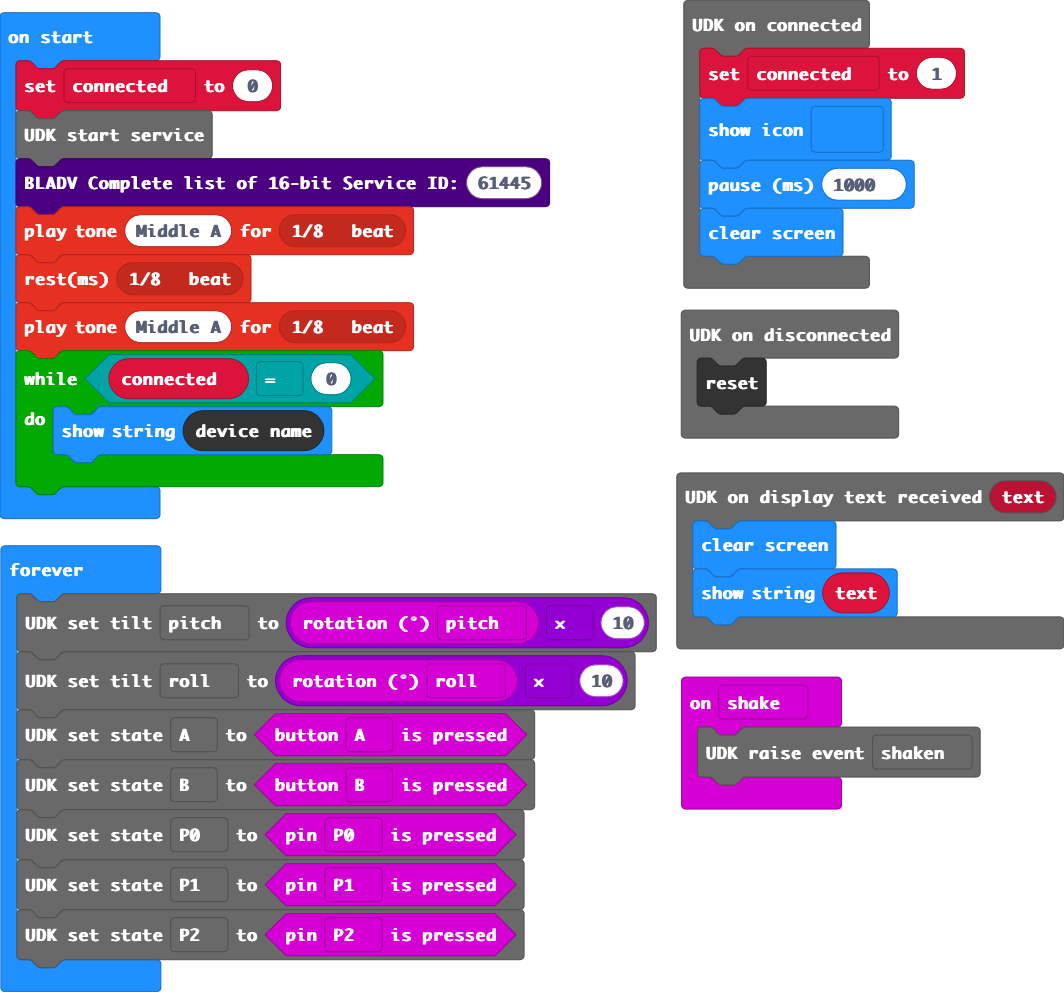
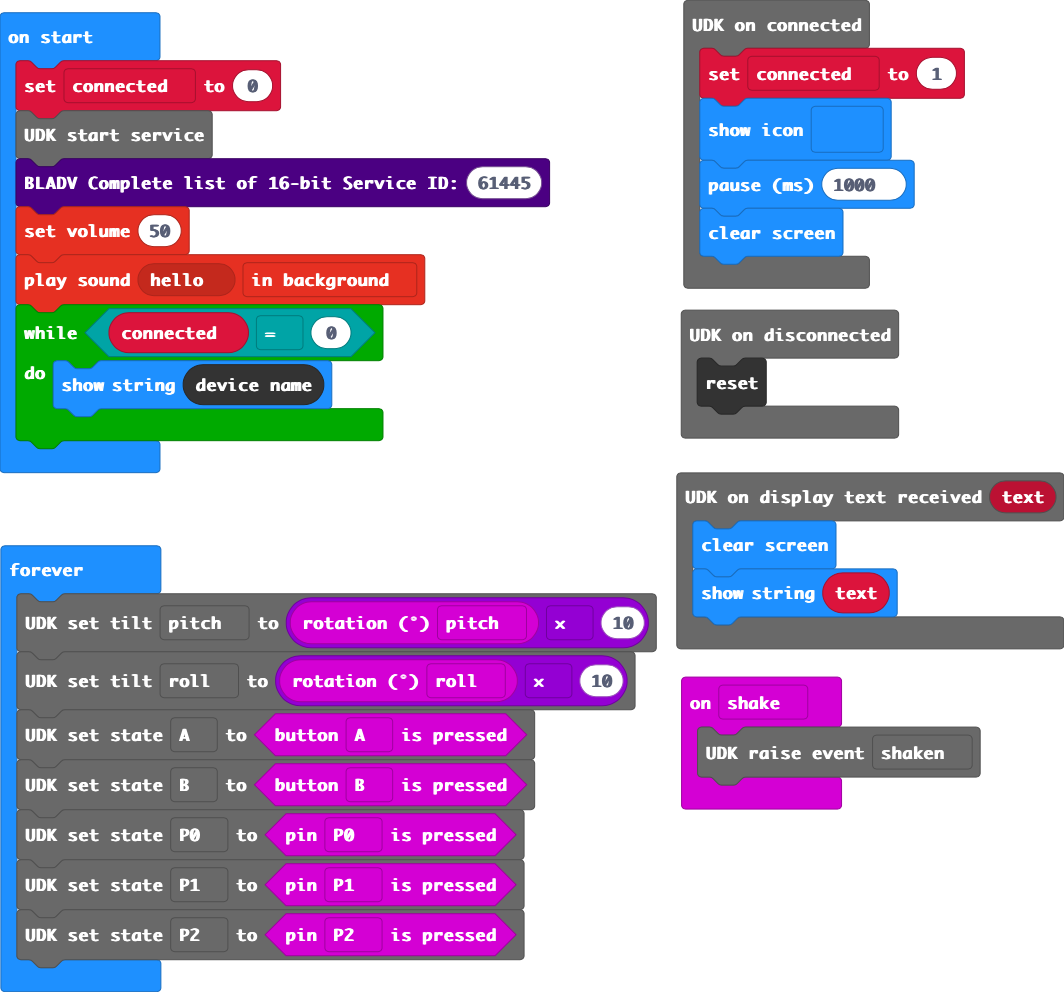
Update main.blocks, main.ts

Changed region(s): [[0.0, 0.1875, 0.4032, 0.5312]]

diff --git a/main.ts b/main.ts
@@ -18,9 +18,8 @@ let connected = 0
 connected = 0
 s3linkudk.startService()
 bladv.accumulateCompleteList16BitServiceID(61445)
-music.playTone(440, music.beat(BeatFraction.Eighth))
-music.rest(music.beat(BeatFraction.Eighth))
-music.playTone(440, music.beat(BeatFraction.Eighth))
+music.setVolume(50)
+music.playSoundEffect(music.builtinSoundEffect(soundExpression.hello), SoundExpressionPlayMode.InBackground)
 while (connected == 0) {
     basic.showString(control.deviceName())
 }
